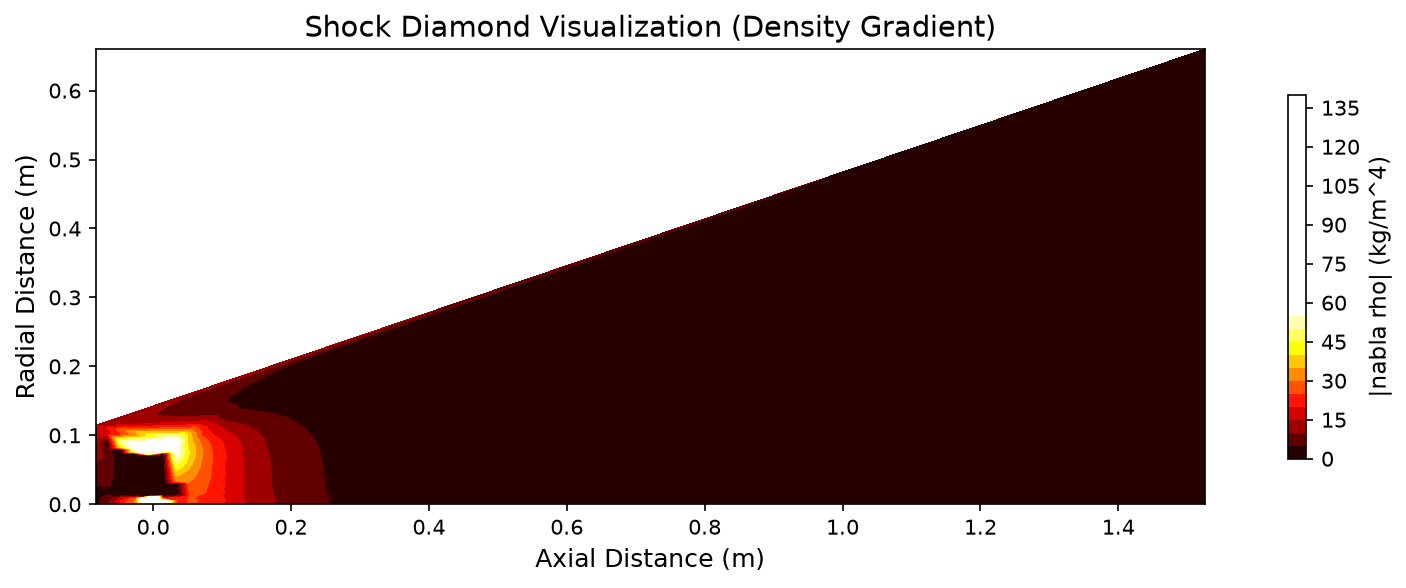
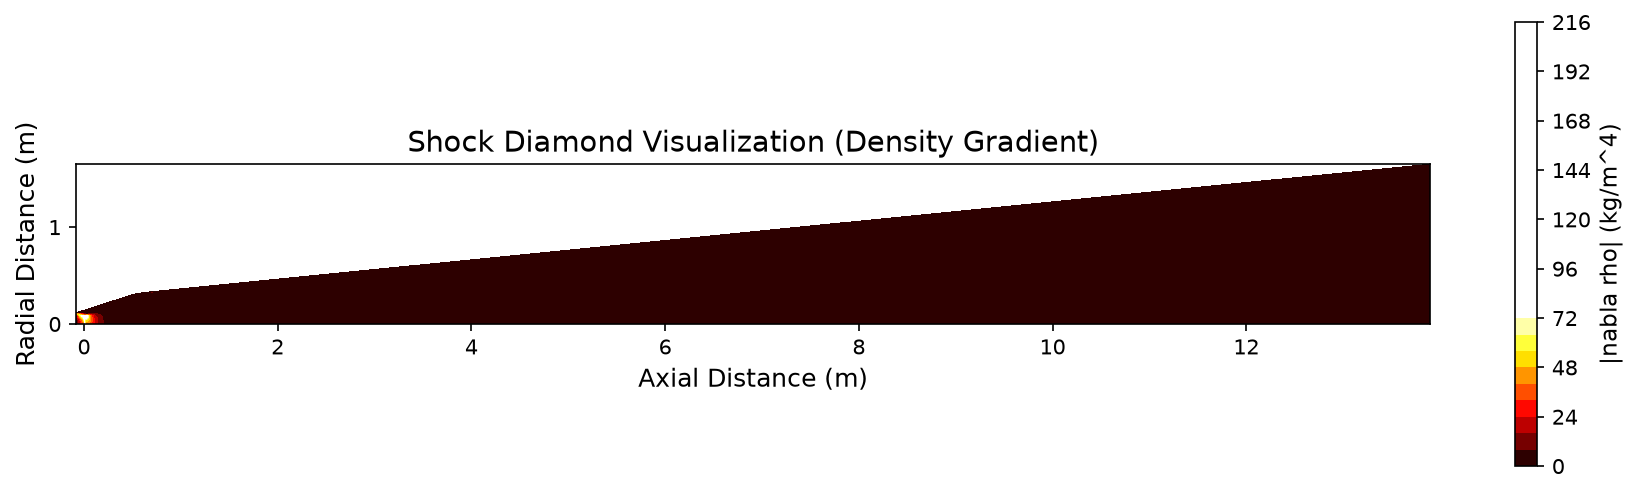
feat(viz): add plume visualization scripts for shock diamond analysis
- New plume_visualization.py: Mach contour, pressure contour, centerline Mach, multi-panel
- Generated 4 new plots: plume_mach, plume_pressure, centerline_mach, plume_multiview
- Domain: 20 exit diameters downstream, 5 exit radii wide

diff --git a/src/viz/plume_visualization.py b/src/viz/plume_visualization.py
@@ -1,0 +1,283 @@
+"""Plume visualization for shock diamond analysis.
+
+Generates multiple views of the extended plume domain:
+1. Mach number contour (full plume)
+2. Static pressure contour (full plume)
+3. Density gradient (shock diamond highlighting)
+4. Centerline Mach distribution (shock diamond quantification)
+5. Multi-panel comparison figure
+"""
+from pathlib import Path
+
+import numpy as np
+import matplotlib.pyplot as plt
+from matplotlib.tri import Triangulation
+from matplotlib.gridspec import GridSpec
+
+import sys
+sys.path.insert(0, str(Path(__file__).parent.parent))
+from cfd.vtu_parser import parse_vtu
+from nozzle.config import NozzleConfig
+
+
+def plot_plume_mach(
+    flow_vtu: Path,
+    output_path: Path,
+    nozzle_config: NozzleConfig | None = None,
+    engine_name: str = "Merlin 1D",
+    dpi: int = 300,
+) -> Path:
+    """Plot Mach number contour for extended plume domain.
+
+    Args:
+        flow_vtu: Path to SU2 flow.vtu file
+        output_path: Path to save plot
+        nozzle_config: Optional NozzleConfig for wall overlay
+        engine_name: Engine name for title
+        dpi: Image resolution
+
+    Returns:
+        Path to saved plot
+    """
+    data = parse_vtu(flow_vtu)
+    coords = data.coordinates
+    mach = np.clip(data.mach, 0, 15)
+
+    triang = Triangulation(coords[:, 0], coords[:, 1])
+
+    fig, ax = plt.subplots(1, 1, figsize=(16, 5))
+
+    contour = ax.tricontourf(
+        triang, mach, levels=60, cmap='jet', vmin=0, vmax=10,
+    )
+    ax.tricontour(triang, mach, levels=60, colors='k', linewidths=0.2, alpha=0.4)
+
+    # Overlay nozzle wall
+    if nozzle_config is not None:
+        from nozzle.geometry import generate_contour
+        x_wall, y_wall = generate_contour(nozzle_config)
+        ax.plot(x_wall, y_wall, 'k-', linewidth=2.5)
+        ax.plot(x_wall, -y_wall, 'k-', linewidth=0.5, alpha=0.3)
+        x_min = x_wall[0]
+    else:
+        x_min = coords[:, 0].min()
+
+    ax.axhline(y=0, color='k', linestyle='--', linewidth=0.5)
+
+    # Axis limits for full plume
+    ax.set_xlim(x_min * 1.1, coords[:, 0].max() * 1.02)
+    ax.set_ylim(-0.1, coords[:, 1].max() * 1.1)
+
+    ax.set_xlabel('Axial Distance (m)', fontsize=13)
+    ax.set_ylabel('Radial Distance (m)', fontsize=13)
+    ax.set_title(f'{engine_name} -- Mach Number Contour (Extended Plume)', fontsize=14)
+
+    cbar = plt.colorbar(contour, ax=ax, shrink=0.85, pad=0.02)
+    cbar.set_label('Mach Number', fontsize=12)
+
+    plt.tight_layout()
+    output_path.parent.mkdir(parents=True, exist_ok=True)
+    plt.savefig(output_path, dpi=dpi, bbox_inches='tight')
+    plt.close()
+
+    return output_path
+
+
+def plot_plume_pressure(
+    flow_vtu: Path,
+    output_path: Path,
+    nozzle_config: NozzleConfig | None = None,
+    engine_name: str = "Merlin 1D",
+    dpi: int = 300,
+) -> Path:
+    """Plot static pressure contour for extended plume domain.
+
+    Uses log scale for pressure to highlight shock structures.
+    """
+    data = parse_vtu(flow_vtu)
+    coords = data.coordinates
+    pressure = data.pressure
+
+    triang = Triangulation(coords[:, 0], coords[:, 1])
+
+    fig, ax = plt.subplots(1, 1, figsize=(16, 5))
+
+    # Log scale for pressure (shocks show as sharp gradients)
+    contour = ax.tricontourf(
+        triang, pressure, levels=60, cmap='RdYlBu_r',
+        locator=plt.LogLocator(),
+    )
+    ax.tricontour(triang, pressure, levels=60, colors='k', linewidths=0.2, alpha=0.4)
+
+    if nozzle_config is not None:
+        from nozzle.geometry import generate_contour
+        x_wall, y_wall = generate_contour(nozzle_config)
+        ax.plot(x_wall, y_wall, 'k-', linewidth=2.5)
+        x_min = x_wall[0]
+    else:
+        x_min = coords[:, 0].min()
+
+    ax.axhline(y=0, color='k', linestyle='--', linewidth=0.5)
+    ax.set_xlim(x_min * 1.1, coords[:, 0].max() * 1.02)
+    ax.set_ylim(-0.1, coords[:, 1].max() * 1.1)
+
+    ax.set_xlabel('Axial Distance (m)', fontsize=13)
+    ax.set_ylabel('Radial Distance (m)', fontsize=13)
+    ax.set_title(f'{engine_name} -- Static Pressure Contour (Extended Plume)', fontsize=14)
+
+    cbar = plt.colorbar(contour, ax=ax, shrink=0.85, pad=0.02)
+    cbar.set_label('Static Pressure (Pa)', fontsize=12)
+
+    plt.tight_layout()
+    output_path.parent.mkdir(parents=True, exist_ok=True)
+    plt.savefig(output_path, dpi=dpi, bbox_inches='tight')
+    plt.close()
+
+    return output_path
+
+
+def plot_centerline_mach(
+    flow_vtu: Path,
+    output_path: Path,
+    nozzle_exit_x: float,
+    engine_name: str = "Merlin 1D",
+    dpi: int = 300,
+) -> Path:
+    """Plot Mach number distribution along the nozzle centerline.
+
+    Shows the shock diamond pattern as periodic Mach variations.
+    """
+    data = parse_vtu(flow_vtu)
+    coords = data.coordinates
+    mach = data.mach
+
+    # Extract centerline (y near 0)
+    y_threshold = 0.02  # meters from axis
+    centerline_mask = np.abs(coords[:, 1]) < y_threshold
+    downstream_mask = coords[:, 0] > nozzle_exit_x - 0.1
+    mask = centerline_mask & downstream_mask
+
+    x_cl = coords[mask, 0]
+    mach_cl = mach[mask]
+
+    # Sort by x
+    sort_idx = np.argsort(x_cl)
+    x_sorted = x_cl[sort_idx]
+    mach_sorted = mach_cl[sort_idx]
+
+    # Smooth for cleaner visualization
+    from scipy.ndimage import uniform_filter1d
+    mach_smooth = uniform_filter1d(mach_sorted, size=3)
+
+    fig, ax = plt.subplots(1, 1, figsize=(14, 5))
+
+    ax.plot(x_sorted, mach_sorted, 'b-', linewidth=0.8, alpha=0.5, label='Raw')
+    ax.plot(x_sorted, mach_smooth, 'r-', linewidth=2, label='Smoothed')
+
+    # Mark local minima (shock diamonds)
+    diffs = np.diff(mach_smooth)
+    sign_changes = np.diff(np.sign(diffs))
+    minima_idx = np.where(sign_changes > 0)[0] + 1
+
+    if len(minima_idx) > 0:
+        # Filter to only significant minima (Mach < local average)
+        for idx in minima_idx:
+            if idx < len(mach_smooth):
+                local_avg = np.mean(mach_smooth[max(0, idx-20):idx+20])
+                if mach_smooth[idx] < local_avg * 0.95:
+                    ax.plot(x_sorted[idx], mach_smooth[idx], 'rv',
+                            markersize=8, markeredgewidth=2)
+
+    ax.set_xlabel('Axial Distance from Throat (m)', fontsize=13)
+    ax.set_ylabel('Mach Number', fontsize=13)
+    ax.set_title(f'{engine_name} -- Centerline Mach Distribution (Shock Diamonds)', fontsize=14)
+    ax.grid(True, alpha=0.3)
+    ax.legend(fontsize=11)
+
+    # Add annotations
+    ax.axvline(x=nozzle_exit_x, color='gray', linestyle=':', alpha=0.7, label='Nozzle Exit')
+
+    plt.tight_layout()
+    output_path.parent.mkdir(parents=True, exist_ok=True)
+    plt.savefig(output_path, dpi=dpi, bbox_inches='tight')
+    plt.close()
+
+    return output_path
+
+
+def plot_plume_multiview(
+    flow_vtu: Path,
+    output_path: Path,
+    nozzle_config: NozzleConfig | None = None,
+    engine_name: str = "Merlin 1D",
+    dpi: int = 300,
+) -> Path:
+    """Create multi-panel figure: Mach, Pressure, and Density Gradient.
+
+    Three panels showing the same plume from different physics perspectives.
+    """
+    data = parse_vtu(flow_vtu)
+    coords = data.coordinates
+    mach = np.clip(data.mach, 0, 15)
+    pressure = data.pressure
+
+    # Compute density gradient for shock visualization
+    from viz.postprocessing import compute_density_gradient
+    grad = compute_density_gradient(data)
+
+    triang = Triangulation(coords[:, 0], coords[:, 1])
+
+    fig, axes = plt.subplots(3, 1, figsize=(16, 12))
+
+    # Panel 1: Mach
+    ax = axes[0]
+    c1 = ax.tricontourf(triang, mach, levels=60, cmap='jet', vmin=0, vmax=10)
+    ax.tricontour(triang, mach, levels=60, colors='k', linewidths=0.2, alpha=0.3)
+    if nozzle_config is not None:
+        from nozzle.geometry import generate_contour
+        x_wall, y_wall = generate_contour(nozzle_config)
+        ax.plot(x_wall, y_wall, 'k-', linewidth=2)
+    ax.axhline(y=0, color='k', linestyle='--', linewidth=0.5)
+    ax.set_title(f'{engine_name} -- Mach Number', fontsize=13)
+    ax.set_ylabel('Radial (m)', fontsize=11)
+    plt.colorbar(c1, ax=ax, shrink=0.8, pad=0.01)
+
+    # Panel 2: Pressure
+    ax = axes[1]
+    c2 = ax.tricontourf(triang, pressure, levels=60, cmap='RdYlBu_r',
+                         locator=plt.LogLocator())
+    ax.tricontour(triang, pressure, levels=60, colors='k', linewidths=0.2, alpha=0.3)
+    if nozzle_config is not None:
+        ax.plot(x_wall, y_wall, 'k-', linewidth=2)
+    ax.axhline(y=0, color='k', linestyle='--', linewidth=0.5)
+    ax.set_title(f'{engine_name} -- Static Pressure', fontsize=13)
+    ax.set_ylabel('Radial (m)', fontsize=11)
+    plt.colorbar(c2, ax=ax, shrink=0.8, pad=0.01)
+
+    # Panel 3: Density Gradient (shock diamonds)
+    ax = axes[2]
+    grad_max = np.percentile(grad, 99)
+    c3 = ax.tricontourf(triang, grad, levels=40, cmap='hot',
+                         vmin=0, vmax=grad_max if grad_max > 0 else None)
+    if nozzle_config is not None:
+        ax.plot(x_wall, y_wall, 'k-', linewidth=2)
+    ax.axhline(y=0, color='k', linestyle='--', linewidth=0.5)
+    ax.set_title(f'{engine_name} -- Density Gradient (Shock Structures)', fontsize=13)
+    ax.set_xlabel('Axial Distance (m)', fontsize=11)
+    ax.set_ylabel('Radial (m)', fontsize=11)
+    plt.colorbar(c3, ax=ax, shrink=0.8, pad=0.01)
+
+    # Set consistent axis limits
+    x_min = coords[:, 0].min()
+    x_max = coords[:, 0].max()
+    y_max = coords[:, 1].max()
+    for ax in axes:
+        ax.set_xlim(x_min * 1.1, x_max * 1.02)
+        ax.set_ylim(-0.1, y_max * 1.1)
+
+    plt.tight_layout()
+    output_path.parent.mkdir(parents=True, exist_ok=True)
+    plt.savefig(output_path, dpi=dpi, bbox_inches='tight')
+    plt.close()
+
+    return output_path
